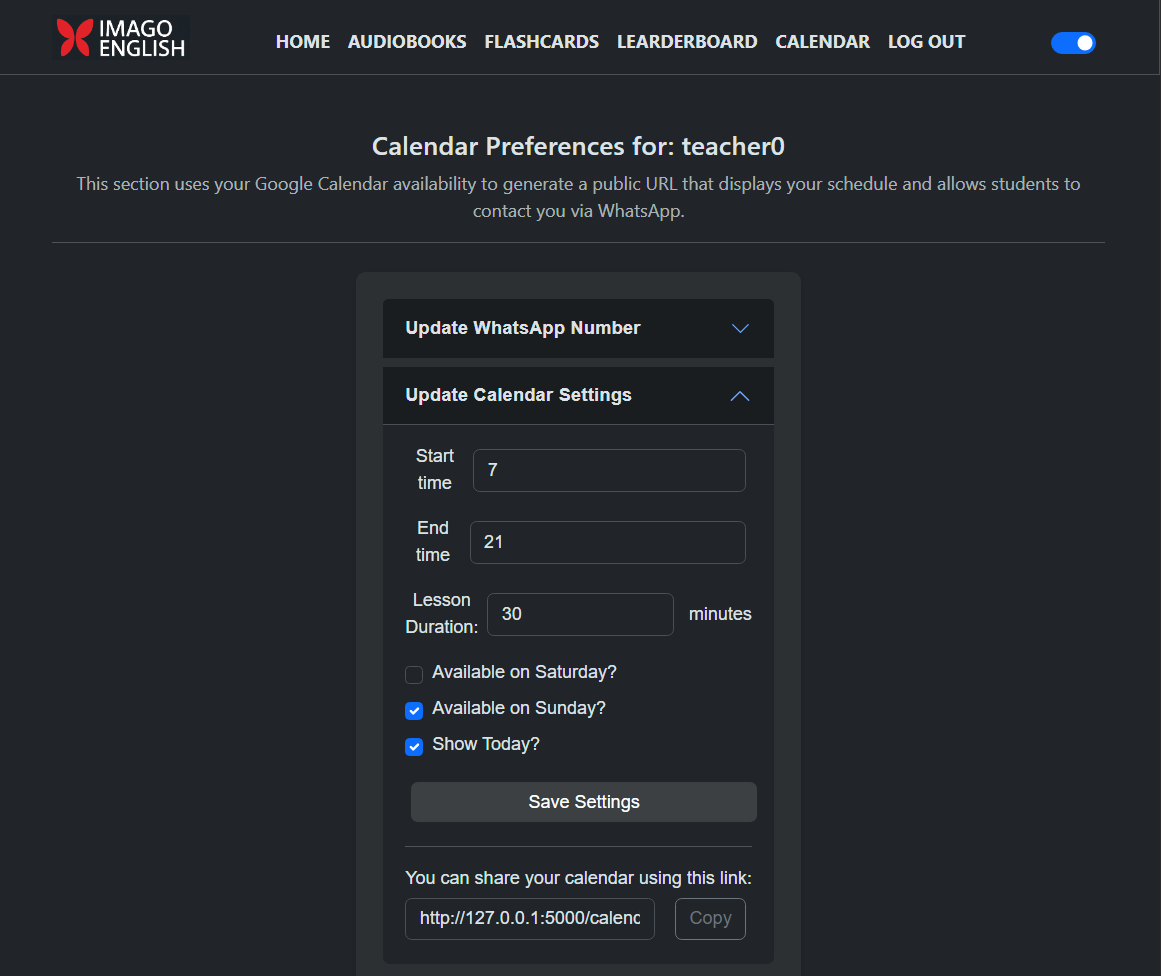
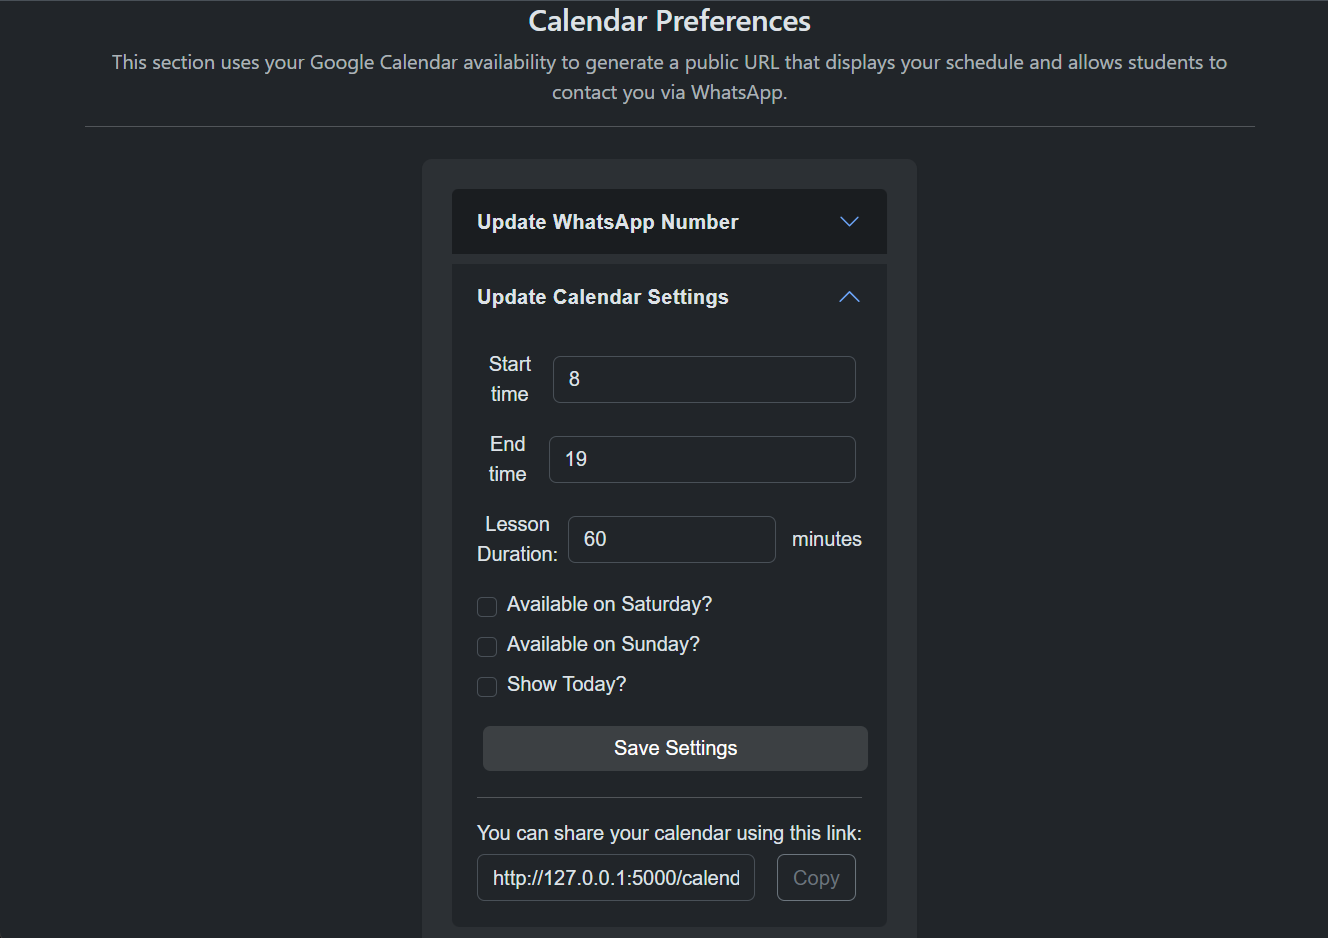
updates screenshots and minor UI improvements.

diff --git a/app/templates/audiobooks.html b/app/templates/audiobooks.html
@@ -41,16 +41,21 @@
       <div class="pt-4">
        {% if audiobook %}
 
-          <p>
-            Your teacher has added an audiobook for you. Listen to the audio and
-            use the text below to select words/phrases, see the translation, and create flashcards.
-          </p>
-          <p>
-            <small>
+      <div class="p-3 mb-3 bg-body-tertiary rounded-3 border">
+        <div class="d-flex align-items-start gap-2">
+          
+          <div>
+            <p class="mb-1">
+              Your teacher has added an audiobook for you. Listen to the audio and use the text below
+              to select words/phrases, see the translation, and create flashcards.
+            </p>
+            <small class="text-muted fst-italic">
               (Seu professor adicionou um audiobook para você. Ouça o áudio e use o texto
               abaixo para selecionar palavras/frases, ver a tradução e criar flashcards.)
             </small>
-          </p>
+          </div>
+        </div>
+      </div>
         {% else %}
           <p>
             Upload your audio and text files (.txt format). When you select a word or phrase,

diff --git a/app/templates/dashboard.html b/app/templates/dashboard.html
@@ -63,12 +63,20 @@
           </div>
         </div>
 
+        {% if current_user.role == '@dmin!' %}
 
+          {% include "partials/admin_dashboard.html" %}
+      
+        {% elif current_user.role == 'teacher' %} 
+
+          {% include "partials/teacher_dashboard.html" %}
+
+        {% endif %}
 
        
 
         {% if current_user.assigned_teacher_id %} 
-          <p> Professor <small>(Teacher)</small>: <strong>{{ current_user.assigned_teacher.name }}</strong></p>
+          <p> Professor <small>(Teacher)</small>: <strong>{{ current_user.assigned_teacher.user_name if current_user.assigned_teacher.user_name else current_user.assigned_teacher.name }}</strong></p>
         {% endif %}
        
                 {% if due_flashcards > 0 %}
@@ -115,15 +123,6 @@
           </div>
          {% endif %}
 
-        {% if current_user.role == 'teacher' %} 
-
-          {% include "partials/teacher_dashboard.html" %}
-
-         {% elif current_user.role == '@dmin!' %}
-
-          {% include "partials/admin_dashboard.html" %}
-
-        {% endif %}
 
           
         <div class="section-box">

diff --git a/app/templates/calendar/calendar.html b/app/templates/calendar/calendar.html
@@ -3,7 +3,7 @@
 
 {% block main %}
 <div class="container mt-4 mb-5" style="max-width: 700px;">
-  <h4 class="mb-3">Availability for {{ teacher.name }} </h4><small>(Disponibilidade para {{ teacher.name }})</small><br>
+  <h4 class="mb-3">Availability for {{ teacher.user_name if teacher.user_name else teacher.name }} </h4><small>(Disponibilidade para {{ teacher.user_name if teacher.user_name else teacher.name }})</small><br>
   
 
   {% if not teacher.phone %}

diff --git a/app/templates/calendar/settings.html b/app/templates/calendar/settings.html
@@ -2,7 +2,7 @@
 {% block title %}Calendar Settings{% endblock %}
 
 {% block main %}
-<h4 class="mb-2">Calendar Preferences for: {{ current_user.name }}</h4>
+<h4 class="mb-2">Calendar Preferences</h4>
 <p class="text-muted">
   This section uses your Google Calendar availability to generate a public URL that displays your schedule and allows students to contact you via WhatsApp.
 </p>

diff --git a/scripts/seed_users.py b/scripts/seed_users.py
@@ -74,7 +74,7 @@ def main():
         student = User(
             id=f"800{i}",
             name=name,
-            user_name=f"u_name_{name.lower()}",
+            user_name=f"{name}",
             email=f"{name.lower()}@example.com",
             role="student",
             join_date=today,

diff --git a/README.md b/README.md
@@ -36,6 +36,7 @@ A visual overview of the app
 | Flashcards Section | Study Session |
 |--------------------|---------------|
 | ![Flashcards Section](docs/screenshots/flashcards_section.png) | ![Study Session](docs/screenshots/study_session.png) |
+| ![Edit Cards](docs/screenshots/flashcards_section2.png) | 
 
 ---
 
